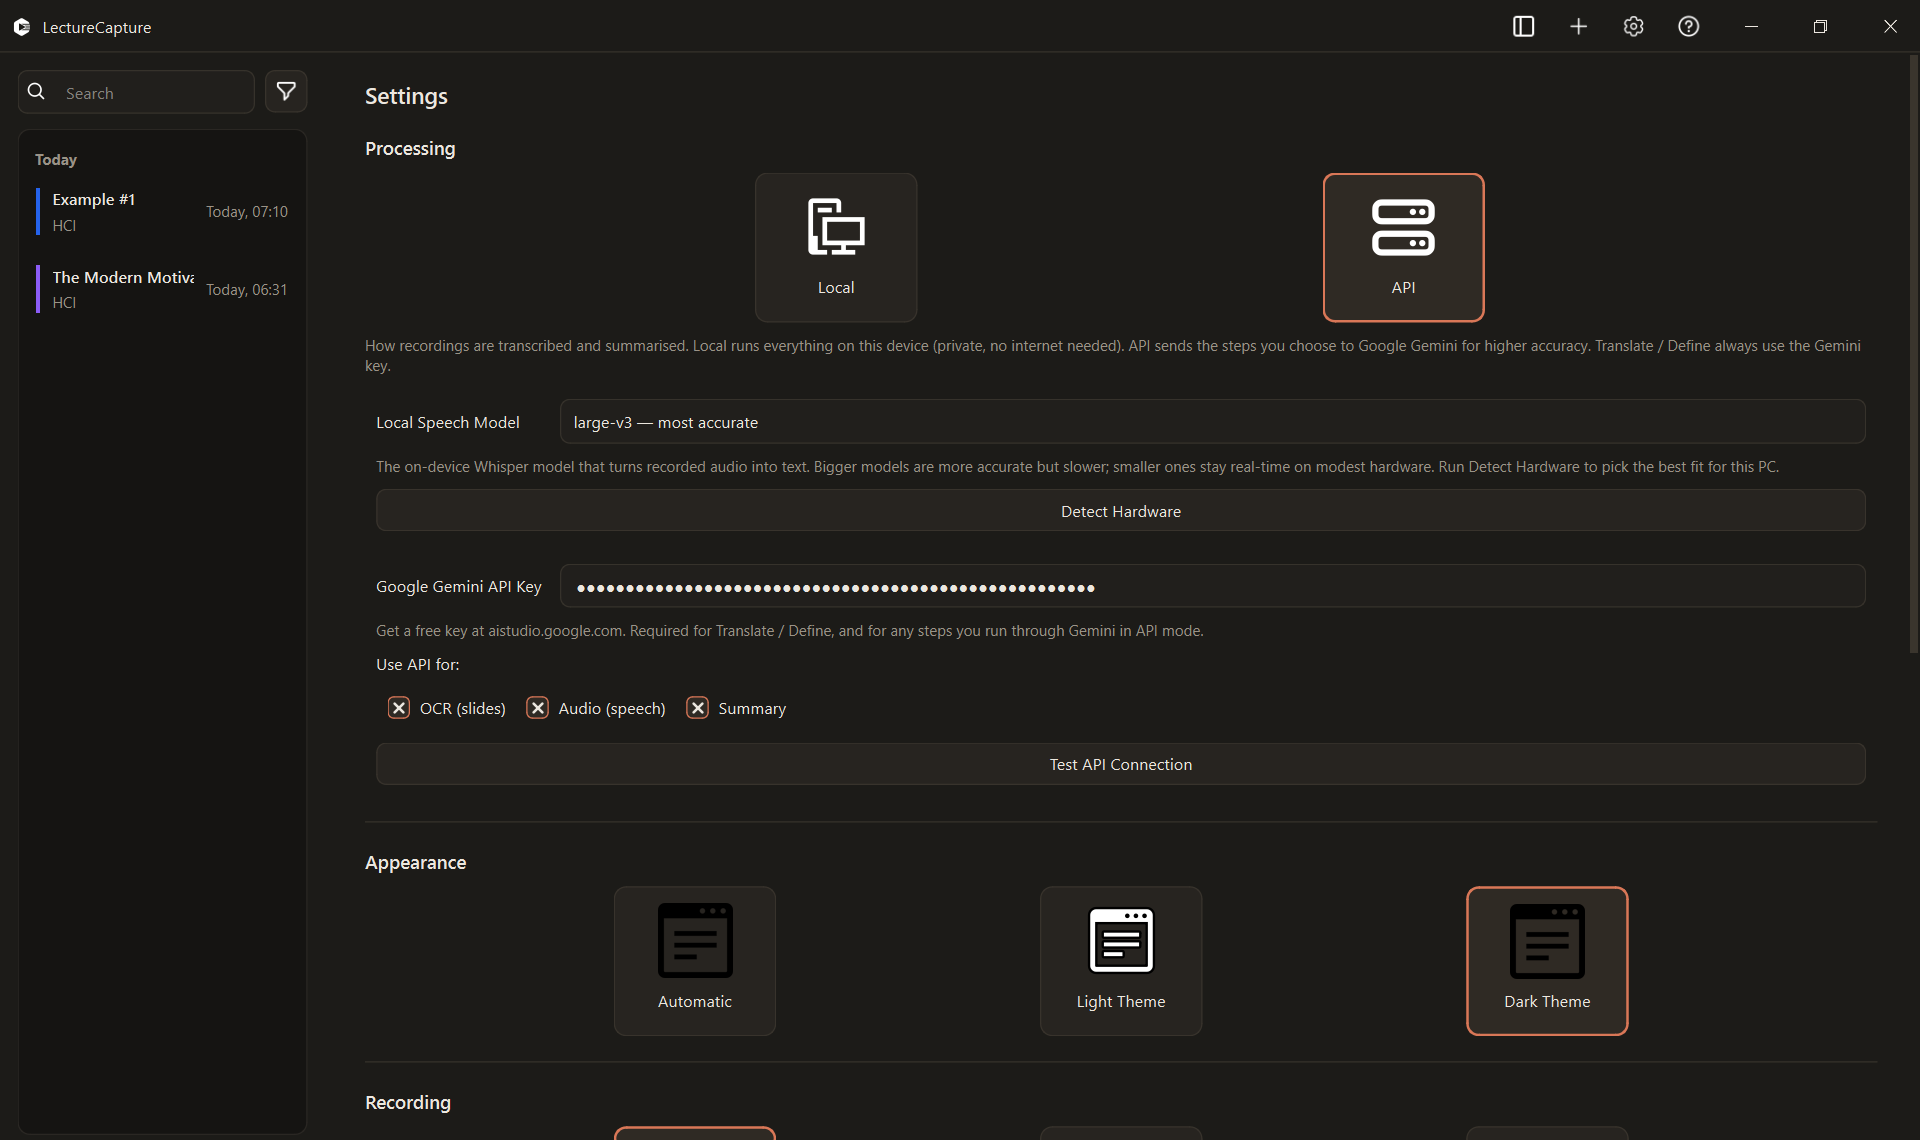
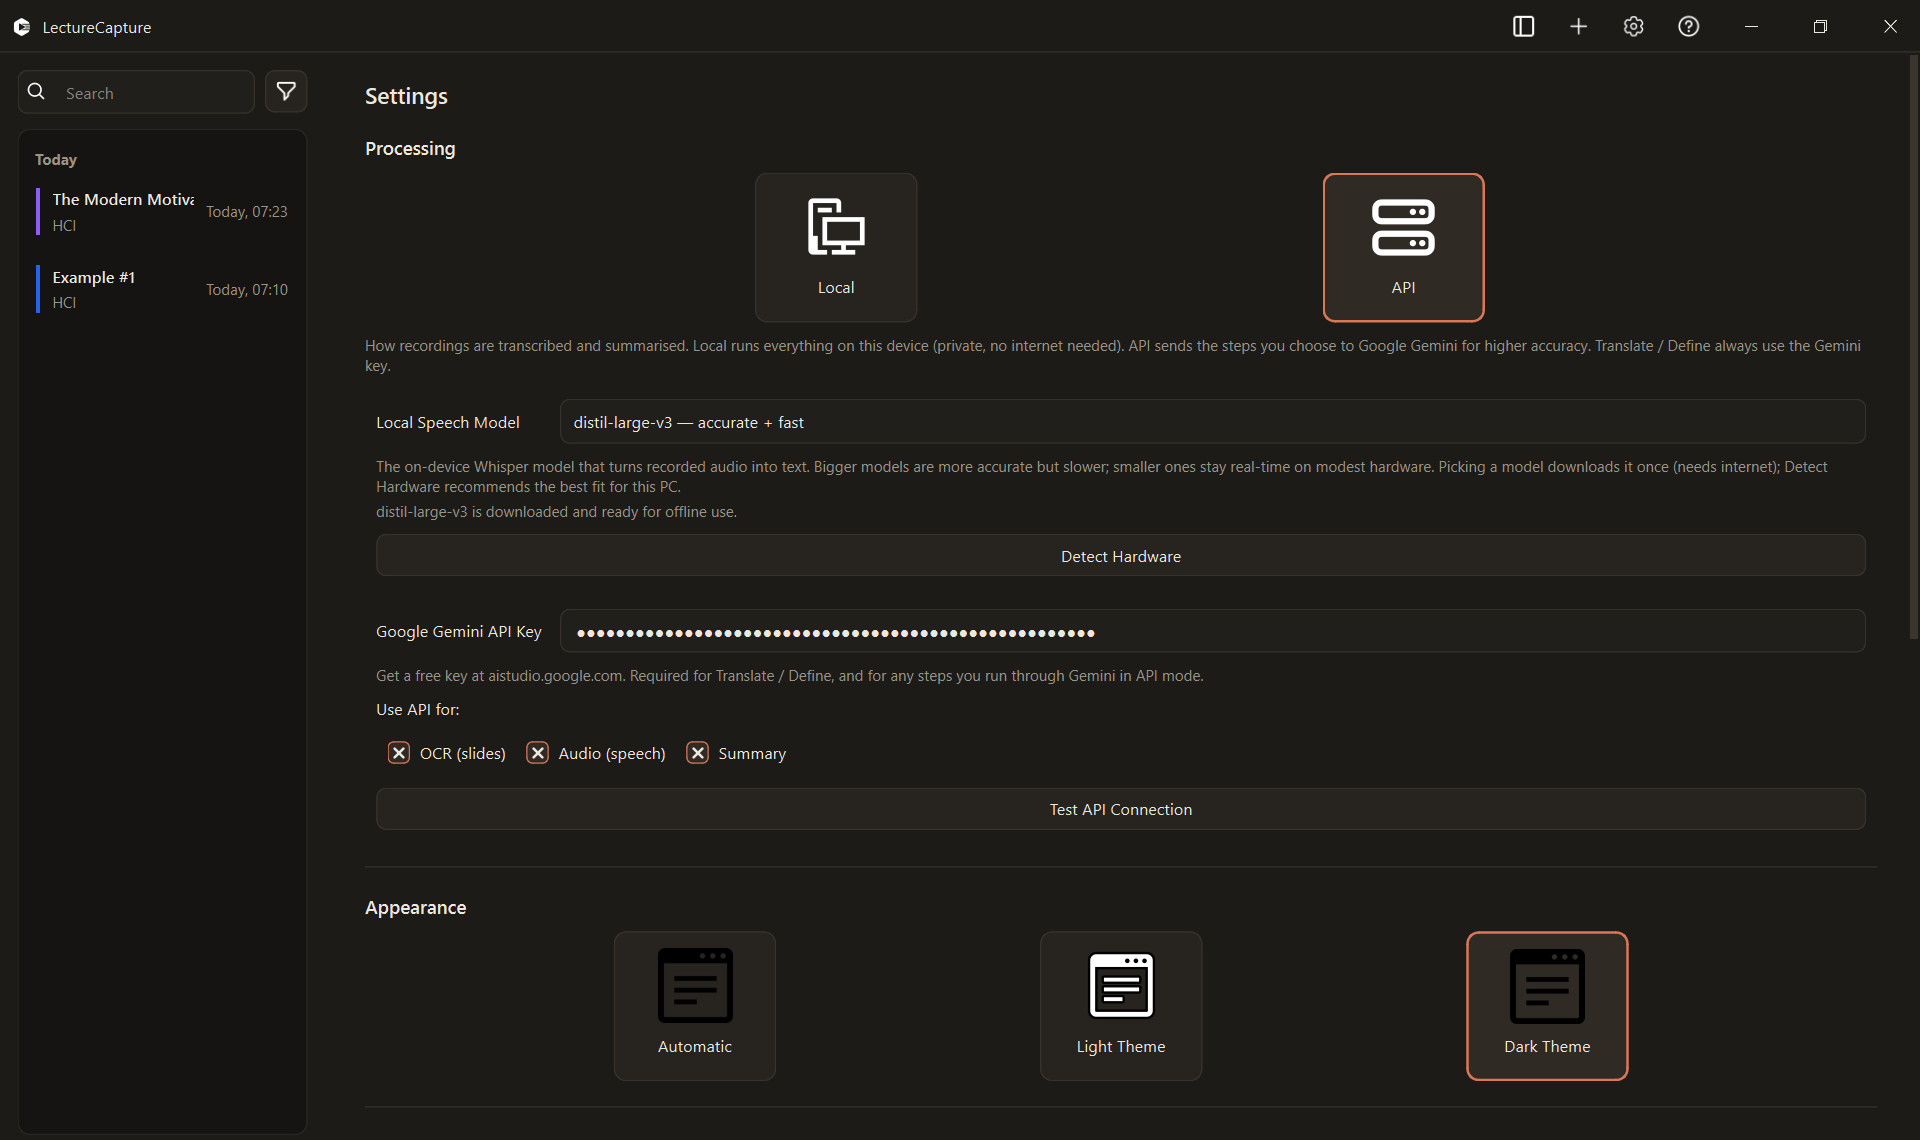
feat: downloads the faster-whisper model when selecting it in the settings

diff --git a/ui/settings_panel.py b/ui/settings_panel.py
@@ -35,6 +35,42 @@ class ConnectionTestWorker(QThread):
         self.done.emit(any_ok)
 
 
+class ModelDownloadWorker(QThread):
+    """Fetches a faster-whisper model in the background when the user picks it, so the
+    first recording isn't blocked on a multi-hundred-MB download. A no-op (and fast) if
+    the model is already cached."""
+    status = pyqtSignal(str, str)  # model_id, "downloading" | "ready" | "failed"
+
+    def __init__(self, model_id: str) -> None:
+        super().__init__()
+        self._model_id = model_id
+
+    def run(self) -> None:
+        try:
+            from faster_whisper import download_model
+        except Exception:
+            try:
+                from faster_whisper.utils import download_model
+            except Exception as e:
+                print(f"[Model] download unavailable: {e}")
+                self.status.emit(self._model_id, "failed")
+                return
+        # Already cached? local_files_only resolves from disk without touching the network.
+        try:
+            download_model(self._model_id, local_files_only=True)
+            self.status.emit(self._model_id, "ready")
+            return
+        except Exception:
+            pass
+        self.status.emit(self._model_id, "downloading")
+        try:
+            download_model(self._model_id)
+            self.status.emit(self._model_id, "ready")
+        except Exception as e:
+            print(f"[Model] download failed for {self._model_id}: {e}")
+            self.status.emit(self._model_id, "failed")
+
+
 class SettingsPanel(QWidget):
     api_keys_changed = pyqtSignal(str)  # gemini_api_key
     processing_mode_changed = pyqtSignal(str)  # local, api
@@ -160,15 +196,30 @@ class SettingsPanel(QWidget):
             "accurate but heavier; on this machine the GPU runs even large models "
             "far faster than real time."
         )
+        # Picking a model downloads it now (activated = user choice only, not the
+        # programmatic setCurrentIndex in load_settings / Apply Recommended).
+        self.speech_model_dropdown.activated.connect(self._on_speech_model_chosen)
+        self._dl_workers = set()
         self.api_layout.addWidget(self.speech_model_dropdown, 0, 1)
 
+        # Note + a download-status line stacked together (the grid row is otherwise full).
+        note_box = QWidget()
+        note_layout = QVBoxLayout(note_box)
+        note_layout.setContentsMargins(0, 0, 0, 0)
+        note_layout.setSpacing(4)
         speech_note = QLabel("The on-device Whisper model that turns recorded audio into text. "
                              "Bigger models are more accurate but slower; smaller ones stay "
-                             "real-time on modest hardware. Run Detect Hardware to pick the best "
-                             "fit for this PC.")
+                             "real-time on modest hardware. Picking a model downloads it once "
+                             "(needs internet); Detect Hardware recommends the best fit for this PC.")
         speech_note.setWordWrap(True)
         speech_note.setObjectName("muted")
-        self.api_layout.addWidget(speech_note, 1, 0, 1, 2)
+        note_layout.addWidget(speech_note)
+        self.speech_model_status = QLabel("")
+        self.speech_model_status.setWordWrap(True)
+        self.speech_model_status.setObjectName("muted")
+        self.speech_model_status.setVisible(False)
+        note_layout.addWidget(self.speech_model_status)
+        self.api_layout.addWidget(note_box, 1, 0, 1, 2)
 
         # Hardware detection — verify the GPU/CPU actually works and recommend a model.
         self._recommended_model = None
@@ -805,6 +856,30 @@ class SettingsPanel(QWidget):
         if idx >= 0:
             self.speech_model_dropdown.setCurrentIndex(idx)
         self.apply_model_button.setVisible(False)
+        self._download_speech_model(self._recommended_model)
+
+    def _on_speech_model_chosen(self, index: int) -> None:
+        # Fired only on a user selection (not programmatic) — fetch it now.
+        self._download_speech_model(self.speech_model_dropdown.itemData(index))
+
+    def _download_speech_model(self, model_id: str) -> None:
+        if not model_id:
+            return
+        worker = ModelDownloadWorker(model_id)
+        worker.status.connect(self._on_model_download_status)
+        worker.finished.connect(lambda w=worker: self._dl_workers.discard(w))
+        self._dl_workers.add(worker)
+        worker.start()
+
+    def _on_model_download_status(self, model: str, state: str) -> None:
+        if state == "downloading":
+            text = f"Downloading {model}… one-time, needs internet (this can take a while)."
+        elif state == "ready":
+            text = f"{model} is downloaded and ready for offline use."
+        else:
+            text = f"Couldn't download {model} — check your internet connection."
+        self.speech_model_status.setText(text)
+        self.speech_model_status.setVisible(True)
 
     def deleteEvent(self) -> None:
         reply = QMessageBox.question(

diff --git a/core/audio.py b/core/audio.py
@@ -284,6 +284,9 @@ class AudioWorker(QThread):
             model_id = chosen or auto_gpu_model()
             try:
                 t0 = time.time()
+                # On first use this downloads the model (can be hundreds of MB) before it
+                # loads — surface that so the empty transcript doesn't look like a freeze.
+                self._emit_engine(f"faster-whisper · loading {model_id}…")
                 model = WhisperModel(model_id, device="cuda", compute_type="float16")
                 self._warmup(model)
                 print(f"[Audio] loaded {model_id} on GPU in {time.time()-t0:.1f}s")
@@ -297,6 +300,7 @@ class AudioWorker(QThread):
         # CPU fallback (int8, greedy). "auto" → tiny.en, else the user's choice (which
         # may be slow on CPU — that's their call; the UI flags GPU-oriented models).
         model_id = chosen or CPU_WHISPER_MODEL
+        self._emit_engine(f"faster-whisper · loading {model_id}…")
         self.model = WhisperModel(model_id, device="cpu", compute_type="int8")
         self._local_engine_label = f"faster-whisper · {model_id} · CPU"
         self._emit_engine(self._local_engine_label)
